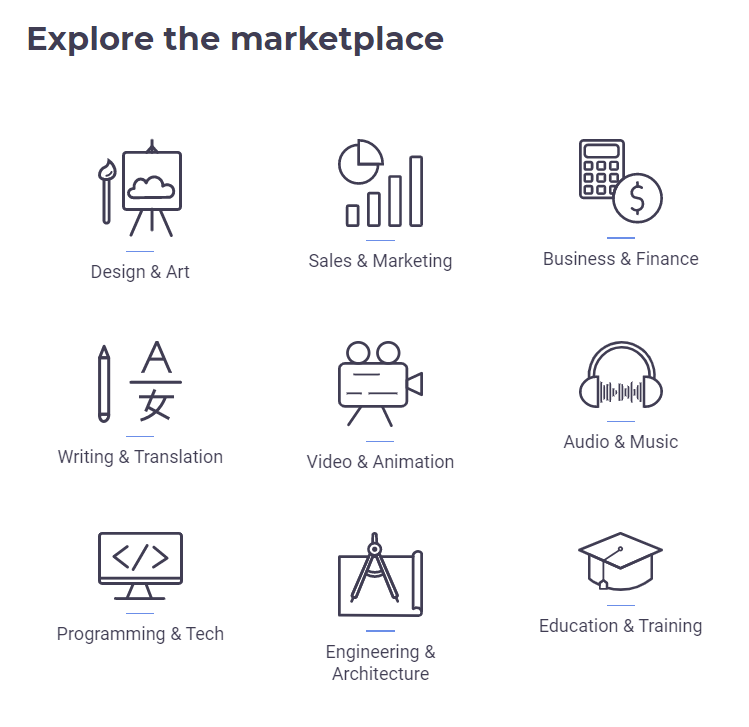
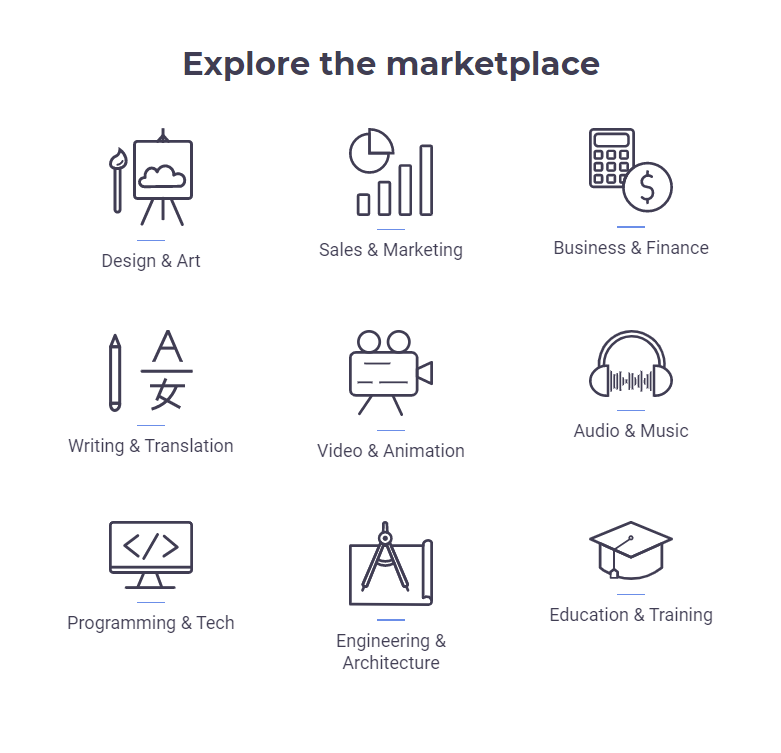
Set up 3 image grid

diff --git a/src/styles/project.css b/src/styles/project.css
@@ -1,5 +1,7 @@
 .images {
     width:100%;
+    max-width: 1100px;
+    margin:1rem auto;
 }
 
 
@@ -8,18 +10,40 @@
     height:100%;
     box-sizing: border-box;
     overflow: hidden;
+    border:4px solid transparent;
+    transition:transform 0.3s ease; 
 }
+
+.images .image-container:hover {
+    transform: scale(1.01);
+}
+
 .images img {
     object-fit: cover;
+    width:100%;
+    height: 100%;
 }
 
 
 .images.s3 {
     display:grid;
-    grid-template-columns: 4fr 1fr;
+    grid-template-columns: 5fr 1fr;
     grid-template-rows: 1fr 1fr;
 }
 
-.images.s3 img:first-child {
+.images.s3 .c0 {
     grid-row: 1 / 3;
+    border-top-left-radius: 18px;
+    border-bottom-left-radius: 18px;
+}
+
+.images.s3 .c1 {
+    min-width:300px;
+    min-height:300px;
+    border-top-right-radius: 18px;
+}
+
+.images.s3 .c2 {
+    border-bottom-right-radius: 18px;
+
 }

diff --git a/src/pages/Project.js b/src/pages/Project.js
@@ -19,8 +19,8 @@ export default function Project() {
         let srcRoot = `/images/${formatTitle(title)}/`; 
 
         let tempImageList = [];
-        images.forEach(image => {
-            tempImageList.push(<div className={`img-container c${images.length}`}> <img src={`${srcRoot}${image}`}/> </div>);
+        images.forEach((image, index) => {
+            tempImageList.push(<div className={`image-container c${index}`}> <img src={`${srcRoot}${image}`}/> </div>);
         })
         setImagesJSX(
             <div className={`images s${images.length > 4 ? 4 : images.length}`}>
